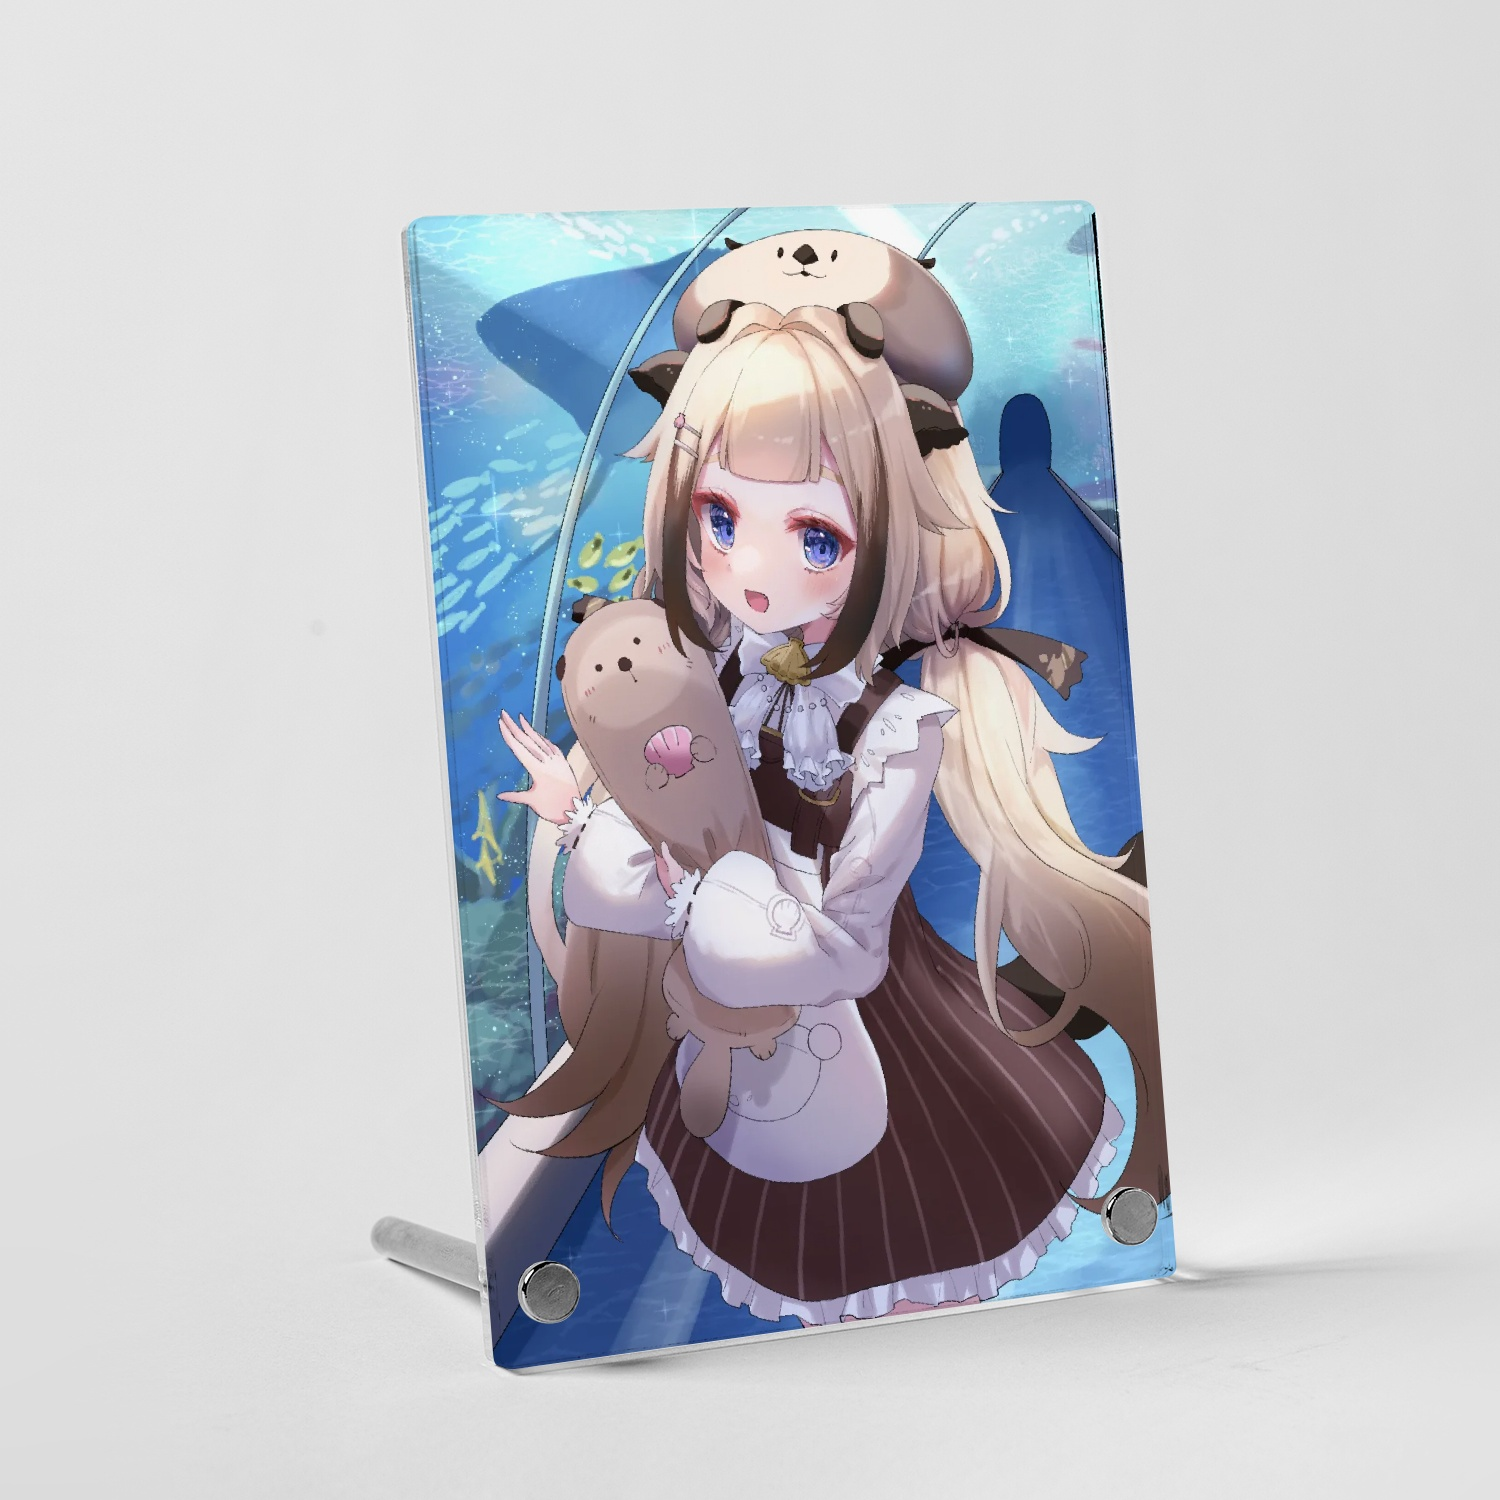
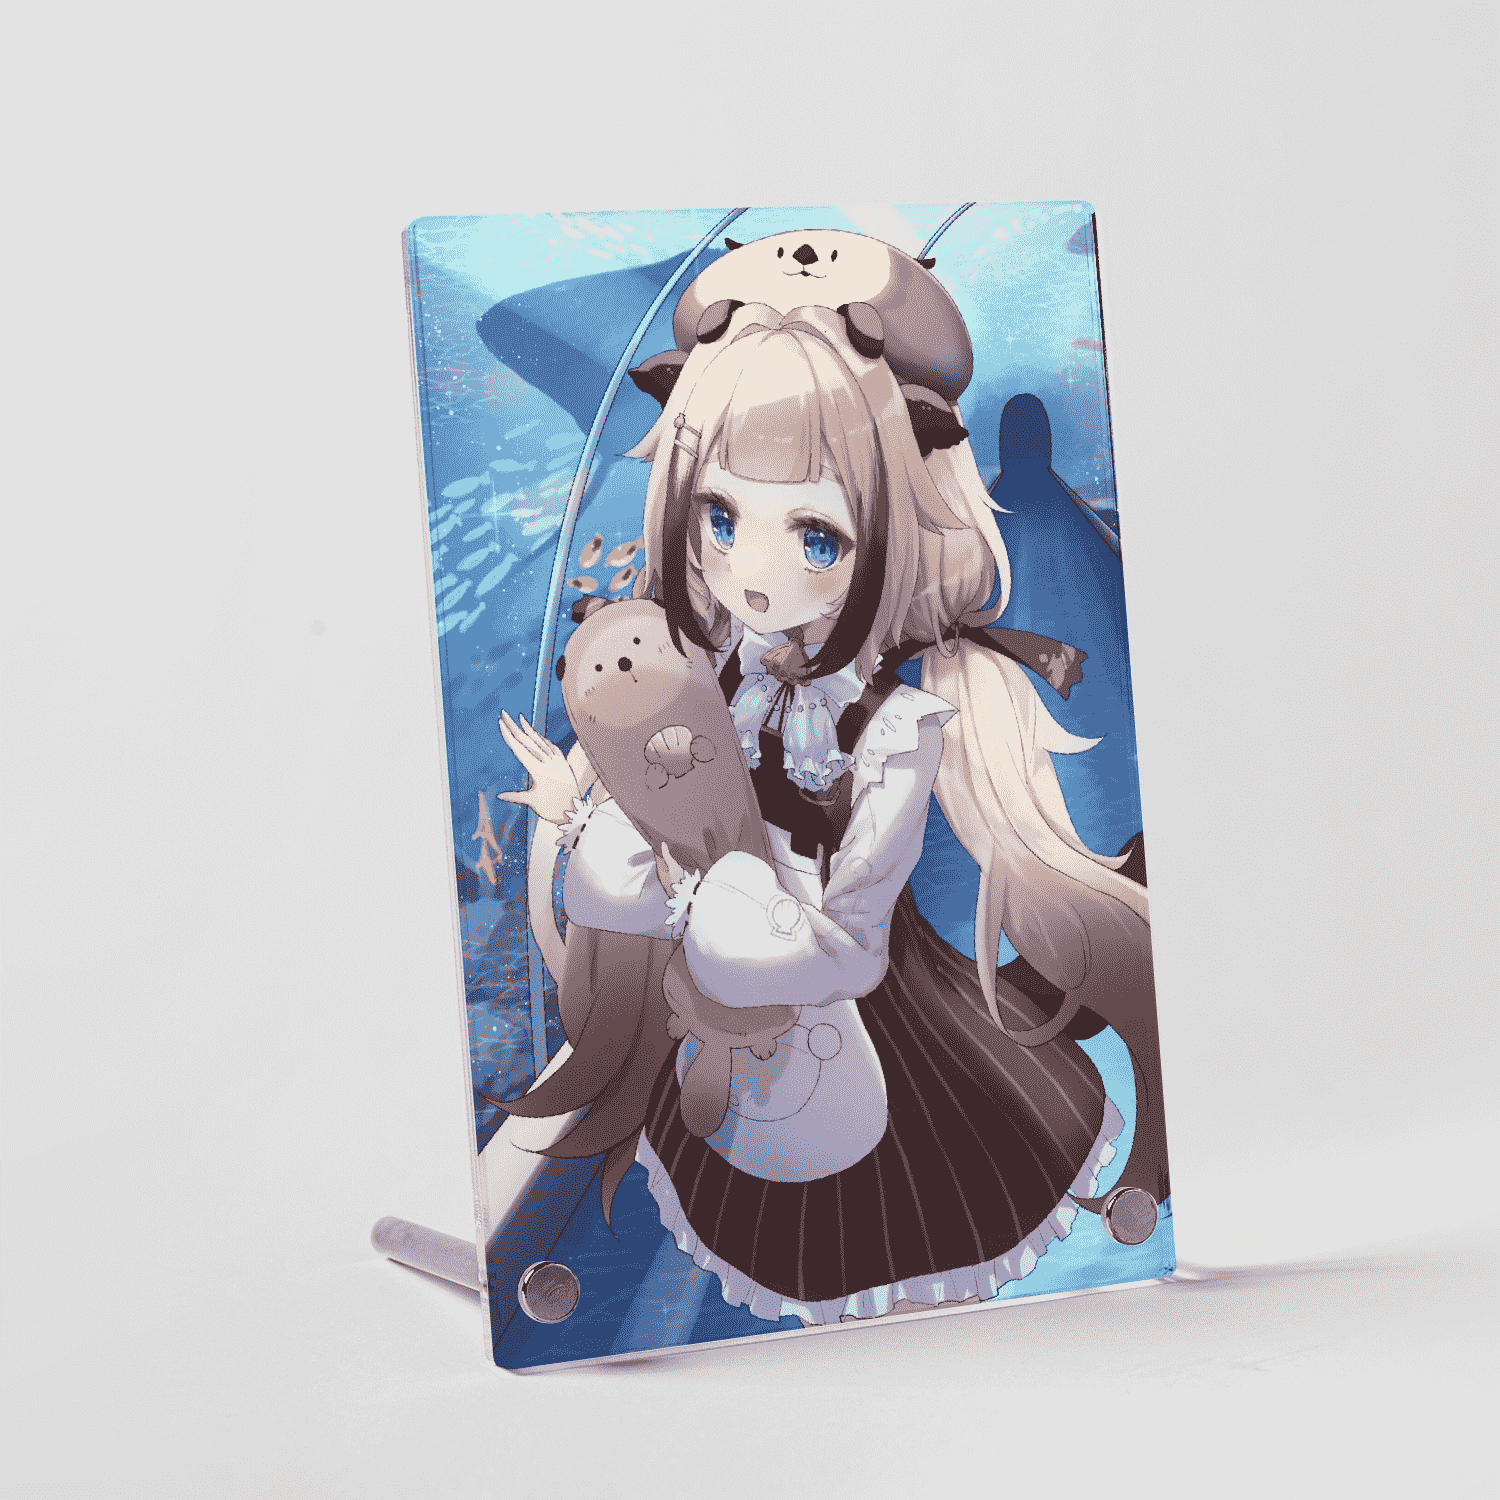
压缩舰礼图片大小

diff --git a/src/assets/gift.js b/src/assets/gift.js
@@ -152,12 +152,6 @@ export const gift = {
       activityTime: '12.26~1.31'
     }],
     2: [
-      // {
-      //   mame: '3周年周边',
-      //   image: '舰礼存档/2026/2月舰礼/3周年',
-      //   activityTime: '全月',
-      //   videoUrl: 'https://www.bilibili.com/video/BV1WAZYBkEwe'
-      // },
       {
         name: 'pvc手办',
         image: '舰礼存档/2026/2月舰礼/pvc小手办.png',

diff --git a/README.md b/README.md
@@ -17,7 +17,8 @@ windows系统下载.msi即可
 
 # 新增舰礼
 只需要在对应文件夹里放入图片，并在```src/assets/gift.js```里配置好即可。 年份、月份会自动识别  
-有一点需要注意的是，新增年份的话，需要修改这个值，防止点击下一个月切换不了
+有一点需要注意的是，新增年份的话，需要修改这个值，防止点击下一个月切换不了  
+还有一点需要注意，图片不要太大！不要搞个几十兆的图片上传上来。  
 ![img.png](img.png)
 
 # 新增音频
